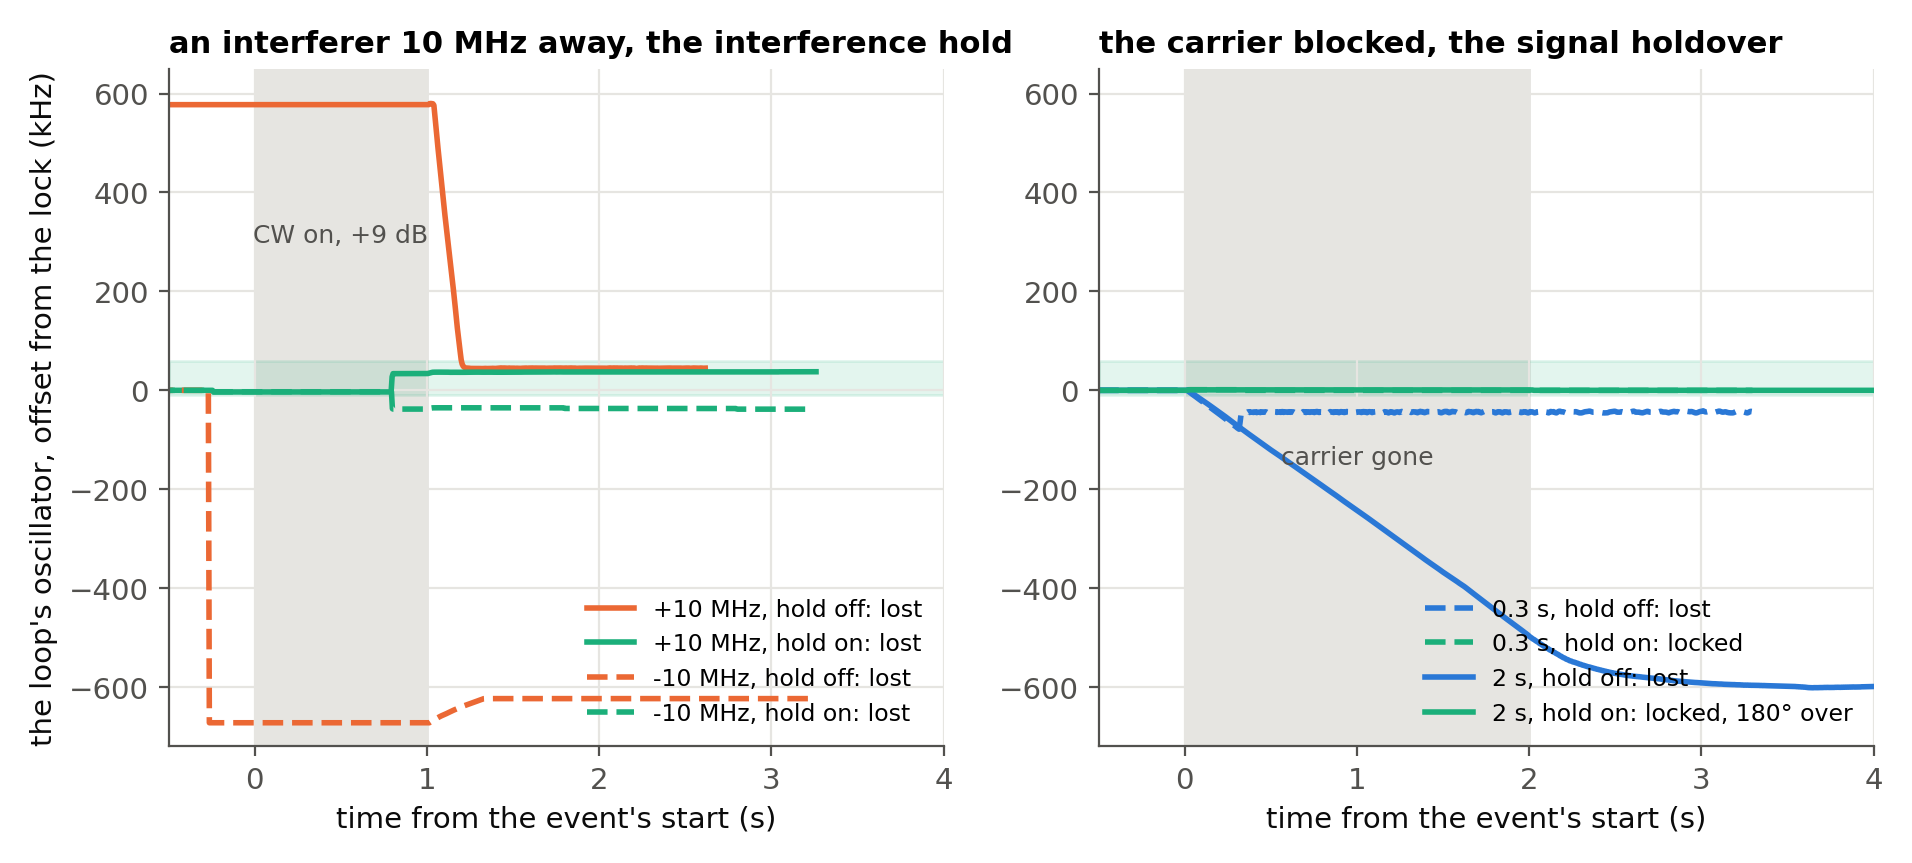
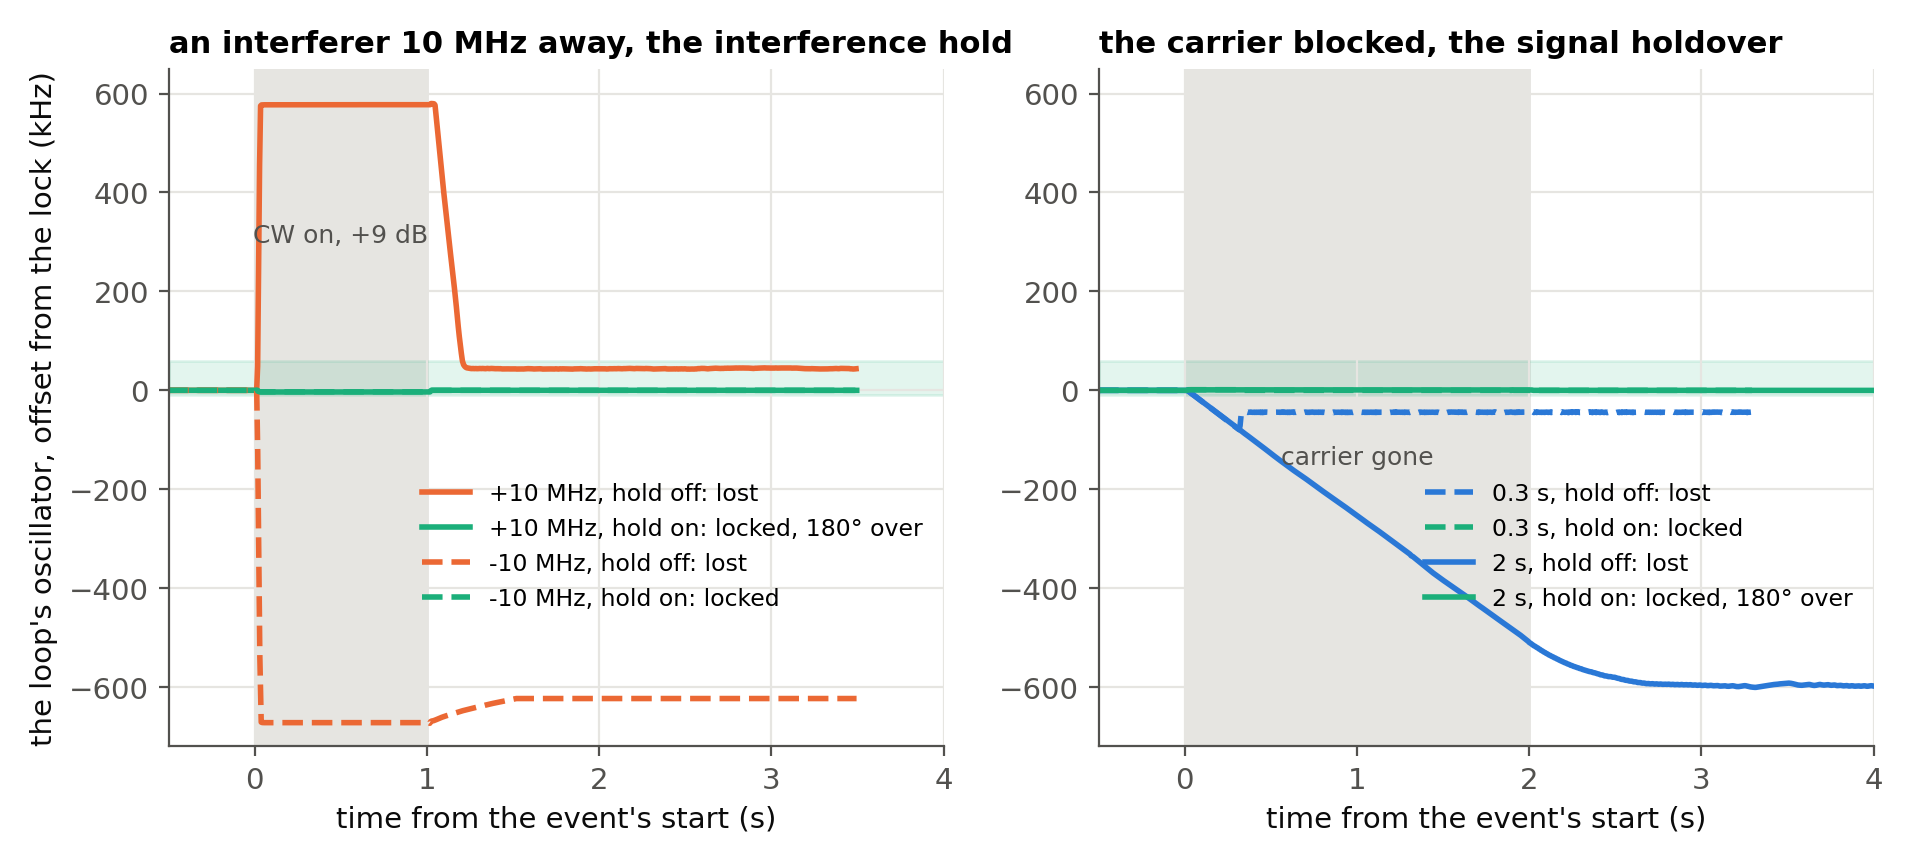
CostasLink-PYNQ-Z2 bring-up, board A: both holds work (BRINGUP_LOG 4.8b): a 1 s CW at +9 dB and a blocked carrier for 0.3 / 2 s all come back with the holds (lost without them, twice each); 40 of 40 dragging CWs back with the interference hold released 20 ms after the last busy window (the driver's 
Claude-Session: https://claude.ai/code/session_01Uf588E7eM22UugUmA7XoDw

diff --git a/bringup/holds_tests.py b/bringup/holds_tests.py
@@ -67,19 +67,28 @@ class Holds(BL.Link):
                 if not self.relock(mhz, st):
                     out["runs"].append({"kind": "interferer", "off_mhz": off, "protect": protect, "error": "no lock before"})
                     continue
+                # the B210 set up and streaming zeros before the trace (while it is configured it radiates its LO,
+                # here 11 MHz from the carrier, strongly enough to drag the loop: BRINGUP_LOG 4.8b), so the CW's
+                # start is a buffer swap, at once
+                sm = Stream(self.bb, mhz + off, 86, rate=4e6, park_hz=-1e6, amp=0.7)
+                sm.start(np.zeros(4000))
+                time.sleep(0.5)
+                if not self.relock(mhz, st):
+                    sm.stop()
+                    out["runs"].append({"kind": "interferer", "off_mhz": off, "protect": protect, "error": "no lock with the B210 idle"})
+                    continue
                 cl.rx_clear()
                 cl.ihold(protect)
-                sm = {}
 
                 def on():
-                    sm["s"] = Stream(self.bb, mhz + off, 86, rate=4e6, park_hz=-1e6, amp=0.7)
-                    sm["s"].start(np.ones(4000))
-                    return sm["s"].t_first
+                    sm.set(np.ones(4000))
+                    return time.time()
 
                 def off_():
-                    sm["s"].stop()
+                    sm.set(np.zeros(4000))
 
                 rows, t_ev, o = self.trace(st, 0.5, 1.0, on, off_)
+                sm.stop()
                 ih = cl.ihold_state()
                 cl.ihold(False)
                 r = {"kind": "interferer", "off_mhz": off, "gain": 86, "protect": protect, "t_on": t_ev, "dur_s": 1.0,

diff --git a/gateware/driver/costaslink.py b/gateware/driver/costaslink.py
@@ -759,11 +759,13 @@ class CostasLink:
         self.wr("RX_BER_CFG", int(enable) | int(invert) << 1 | self.POLYS[poly] << 4 | (phase & 0xFFFF) << 8
                 | int(bool(cdr)) << 24 | (gain & 0xF) << 25)
 
-    def ihold(self, on=True, mask=(CMP_QP, CMP_QN), window=256, thresh=8, hold_s=1e-3, max_s=5.0):
+    def ihold(self, on=True, mask=(CMP_QP, CMP_QN), window=256, thresh=8, hold_s=20e-3, max_s=5.0):
         """the interference hold (ID version 5, ihold.v): LOOP_HOLD while the comparators in `mask` change in `thresh`
         or more of each `window` clocks (a power of 2, 8-1024), released hold_s after they were last busy; never longer
         than max_s at a time.  A hold starts only after a quiet window, so it catches an interferer arriving at a
-        locked loop and never freezes a lost, beating one.  The defaults leave the link's
+        locked loop and never freezes a lost, beating one.  hold_s 20 ms: with 1 ms, 3 of 40 dragging CWs got the loop
+        in a release between busy windows (an interferer at the threshold, the B210's underflows); with 20 ms, 40 of 40
+        came back (BRINGUP_LOG 4.8b)  The defaults leave the link's
         own events and BPSK on I alone and catch an interferer's beat of 1 MHz and more from about -6 dB"""
         if not getattr(self, "ihold_ok", False):
             raise IOError("this overlay has no interference hold (ID version 5 has)")

diff --git a/docs/lock_figures.py b/docs/lock_figures.py
@@ -313,7 +313,7 @@ def fig_holds():
         ax.axhspan(-10, 60, color=AQUA, alpha=0.12, zorder=0)
         ax.set_xlabel("time from the event's start (s)")
         ax.set_xlim(-0.5, 4.0)
-        ax.legend(loc="lower right", fontsize=8.5)
+        ax.legend(loc="lower right", bbox_to_anchor=(1.0, 0.17), fontsize=8.5)
     axs[0].set_ylim(-720, 650)
     axs[1].set_ylim(-720, 650)
     axs[0].set_ylabel("the loop's oscillator, offset from the lock (kHz)")

diff --git a/docs/LOCK.md b/docs/LOCK.md
@@ -260,9 +260,12 @@ LOOP_HOLD with the software's own CTRL bit. **Both are off at reset**: nothing c
   maximum while a CW was still on, the loop was dragged 37 kHz, and the hold then re-held the lost loop's beat 86
   times, freezing it off the lock (BRINGUP_LOG 4.8). A hold freezes the loop wherever it is, so the one thing it
   must never do is hold a loop that is not locked.
-* **Release.** 1 ms after the last busy window; at most 5 s in one go, after which it lets go, waits 1 ms (the guard)
-  and can start again only after a quiet window. Five seconds is long against any WiFi burst; a longer interferer
-  than that gets the loop back to fend for itself, and the lock detector and search are the next line (section 8).
+* **Release.** 20 ms after the last busy window (the driver's default; the gateware's reset value is 1 ms): an
+  interferer near the drag threshold, or one with gaps, is busy only part of the time, and with a 1 ms release 3 of
+  40 dragging CWs caught the loop between holds, against 0 of 40 at 20 ms (BRINGUP_LOG 4.8b); the phase walks well
+  under a degree in 20 ms. At most 5 s in one go, after which it lets go, waits out the guard and can start again
+  only after a quiet window. Five seconds is long against any WiFi burst; a longer interferer than that leaves the
+  loop to fend for itself, and the lock detector and search are the next line (section 8).
 * **Registers** (`gateware/regmap.py`): `RX_IHOLD_CFG` 0x73 ([0] on, [3:1] window 2^(3+n) clocks, [15:8] threshold,
   [20:16] the comparators; reads [4] holding now, [31:24] the last window's count), `RX_IHOLD_HOLD` 0x74 (release
   delay and guard, clocks), `RX_IHOLD_MAX` 0x75, `RX_IHOLD_N` 0x76 (holds started), `RX_IHOLD_CLK` 0x77 (clocks held);
@@ -290,18 +293,31 @@ LOOP_HOLD with the software's own CTRL bit. **Both are off at reset**: nothing c
 
 ### 7.4 Measured
 
-`bringup/holds_tests.py holds`, 5.2 GHz over the air: the board's own link with a 1 s CW at +9 dB 10 MHz above or
-below the carrier, and the B210 as the carrier (the board's TX muted) switched off for 0.3 s and 2 s, as if someone
-stood in front of the antenna; each with the protection off and then on.
+`bringup/holds_tests.py holds` (twice, 21:13 and 21:38) and `weekend.py iholdcheck`, `pullauto`, 5.2 GHz over the air,
+on the overlay of 2026-10-30 21:12 (`a1eb2e6`; BRINGUP_LOG 4.8b): the board's own link with a 1 s CW at +9 dB 10 MHz above or below
+the carrier, and the B210 as the carrier (the board's TX muted) switched off for 0.3 s and 2 s, as if someone stood in
+front of the antenna; each with the protection off and then on.
 
 | case | protection off | protection on |
 |---|---|---|
-| CW +10 MHz, +9 dB, 1 s | lost: dragged to +578 kHz, parked in the +45 kHz false lock | *(the armed hold: see BRINGUP_LOG 4.8)* |
-| CW −10 MHz, +9 dB, 1 s | lost: dragged to −672 kHz, stays at the rail | *(the armed hold: see BRINGUP_LOG 4.8)* |
-| carrier gone 0.3 s | lost (beating, VC 1.749 V) | **locked at once** (1 holdover, 0.30 s) |
-| carrier gone 2 s | lost (VC 0.381 V, near the bottom rail) | **back at once** (1 holdover, 2.01 s; 180° over) |
+| CW +10 MHz, +9 dB, 1 s | lost both times: dragged to +578 kHz, parked in the +45 kHz false lock | **locked again both times** (1 hold of 1.01-1.02 s; 180° over both times) |
+| CW −10 MHz, +9 dB, 1 s | lost both times: dragged to −672 kHz, stays at the rail | **locked again both times** (1 hold of 1.01-1.02 s; once 180° over) |
+| carrier gone 0.3 s | lost both times (a false lock, VC 1.75 V) | **locked at once both times** (0.31 s held) |
+| carrier gone 2 s | lost both times (VC 0.37-0.41 V, near the bottom rail) | **locked at once both times** (2.00 s held; once 180° over) |
+| the pull test's 40 dragging CWs (1-40 MHz either side, about +3 to +12 dB) | 0 of 24 back (4.5) | **40 of 40 back** (release 20 ms; 37 of 40 at 1 ms) |
+| A3's 20 000 events, 25 Mbaud BPSK, 20 s of quiet | | **no hold at all**; A3 19 984 right against 19 988 off, BPSK 10 of 10 clean |
 
 ![the gateware's holds at work](images/lock_holds.png)
+
+*VC against the time from the event's start. Left: a 1 s CW at +9 dB, 10 MHz above (solid) or below (dashed) the
+carrier: free (orange) the loop goes to a rail and stays lost; with the interference hold (aqua) VC does not move and
+the loop locks again when the CW ends. Right: the carrier gone for 0.3 s (dashed) or 2 s (solid): free (blue) the LO
+walks off at about 300 kHz a second and the loop is lost; with the signal holdover (aqua) it stays put and locks again
+at once.*
+
+After a hold of a second the loop comes back at either of its two points (the references drift apart by up to a few
+hertz while it is held); after a WiFi burst of milliseconds the phase hardly moves. A link that sends data has to
+resolve the 180° ambiguity in any case (differential encoding, or a known preamble).
 
 ### 7.5 Using them
 
@@ -311,7 +327,7 @@ From the PC or the PYNQ, through the driver (`gateware/driver/costaslink.py`):
 cl.protect(True)          # both holds on, with their defaults: the deployment's setting, once locked
 cl.protect(False)         # both off: before a search or acquisition, and for tests that make the windows busy
 
-cl.ihold(True, mask=(CMP_QP, CMP_QN), window=256, thresh=8, hold_s=1e-3, max_s=5.0)      # the interference hold
+cl.ihold(True, mask=(CMP_QP, CMP_QN), window=256, thresh=8, hold_s=20e-3, max_s=5.0)     # the interference hold
 cl.shold(True, mask=(CMP_IP, CMP_IN, CMP_QP, CMP_QN), window=256, thresh=64, hold_s=1e-3, max_s=10.0)   # the holdover
 cl.ihold_state(), cl.shold_state()   # on, holding now, the last window's count, holds started, seconds held
 ```
@@ -333,8 +349,8 @@ push the interferer can create. Everything else is what to do once the loop has 
 
 | lever | where | what it buys | evidence |
 |---|---|---|---|
-| hold during interference | rev A gateware (`ihold.v`) | the push has nothing to act on while it lasts | 24 of 24 by hand (4.5); 4.8 |
-| hold while the carrier is gone | rev A gateware (`ihold.v`, LEVEL 1) | the LO stays on the carrier's frequency | 4.8 |
+| hold during interference | rev A gateware (`ihold.v`) | the push has nothing to act on while it lasts | 24 of 24 by hand (4.5); 40 of 40 in gateware (4.8b) |
+| hold while the carrier is gone | rev A gateware (`ihold.v`, LEVEL 1) | the LO stays on the carrier's frequency | 4 of 4 (4.8, 4.8a, 4.8b) |
 | know when you are lost, then search | rev A gateware (next) | recovery in tens of ms instead of never | 52 of 52 offsets by a downward sweep from the PC (3.9j); 96 of 96 recoveries (3.9f); REVB 21, 25 |
 | keep interferers away from the limiter | rev B | the loop needs a few kHz but its detector sees the arms' 94 MHz; a narrower, matched I/Q filter feeding the detector alone (the decisions keep the wide arms) stops most out-of-channel interferers reaching the comparator | the thresholds of section 4; REVB 27 |
 | remove the push | rev B | match the delay from the arms to U110 on the sign(I) and Q paths, and the push vanishes, leaving the capture effect | the model, section 3 |

diff --git a/bringup/BRINGUP_LOG.md b/bringup/BRINGUP_LOG.md
@@ -244,3 +244,4 @@ the floor that keeps the ADL5380's input at 0 dBm or less (its maximum +15).
 | 4.7 the BER check's timing recovery on the board (17:31: overlay ID 0x434C0004 from `3c1f3bb`, Vivado 2022.1, `build/pynq/overlay_2022.1_cdr/`, bit `b6ff8286...`, hwh `f7bf07c1...`; deployed to `~/costaslink_cdr/` on the PYNQ, the server restarted there, `~/costaslink/` (the 2024.1 turnaround overlay) kept as it was; the watchdog paused for the swap) | the frame lottery gone (4.6); a transmitter on its own clock checked | **Built**: the first 2022.1 build failed timing on the unpipelined loop (32 logic levels, -10 ns); pipelined over four clocks it met 100 MHz but the fast path missed its 6 ns pin-to-pin target by 10 ps; place and route again with Performance_ExplorePostRoutePhysOpt: WNS +0.158 ns, WHS +0.032 ns, the fast path 2.7-13.1 ns pin to pin.  **On the board**: ID 0x434C0004, BUILD unchanged, the five I2C parts, both PLLs locked, the loop locked over the air at DSA 17.75.  **The board's own link, 20 runs of 50 ms at each rate**: fixed phase 4 / 8 / 1 of 20 runs with errors at 25 / 50 / 10 Mbaud; **timing recovered 0 of 20 at every rate** (27.2 M, 54.0 M, 10.7 M bits, no error).  **B210 -> board BPSK (the B210's own clock), timing recovered: 10 runs of 1 s at 1 and 2 Mbaud, loop gains 2^-4 and 2^-6: 60.4 M bits, no error, no B210 underflow; the clocks' offset from the recovery's own corrections +5.3 +- 0.3 ppm**, the software receiver's -5.30 ppm the other way round (4.4): two independent recoveries agree.  `campaign.ber_once` (and every BER segment since) now uses the recovery at 2 clocks a symbol and more | |
 | 4.8 the gateware's holds (Jason 18:10: "If someone walks in front of the antenna and blocks it or their phone wifi interferes, the lock should recover once the incoming signal and interference levels recover"; overlay 0x434C0005 `dd3ef6b`, Vivado 2022.1, WNS +0.235 ns, deployed 19:24 to `~/costaslink_holds/`; `holds_tests.py holds` 19:26) | each switched and tuned from software, off at reset | **The signal holdover works**: the B210's carrier (the board's TX muted) gone for 0.3 s and for 2 s, as if blocked: held, the loop was locked again at once both times (1 holdover each, 0.30 and 2.01 s held; the 2 s one 180 degrees over); free, lost both times (VC 1.749 V, a false lock; 0.381 V, near the bottom rail: the board's own drift, about 300 kHz/s, carries the free loop off while the carrier is gone).  **The first interference hold did not save the loop, and showed why**: through a 1 s CW at +9 dB 10 MHz above or below, VC stayed within 3 kHz while held (free: to +578 / -672 kHz), but the hold reached its 1 s maximum with the CW still on (the B210's stream starts sending inside its setup, before the test's clock started), was released into it, the loop dragged about 37 kHz, and then the lost loop's own beat made the Q windows chatter and re-held it 86 times, freezing it 37 kHz off.  **Fixed in `ihold.v`**: a hold starts only after a quiet window (an interferer arriving at a locked loop finds it armed, a lost loop never), after a release at the maximum it waits for quiet, and the maximum is 5 s; `tb_ihold.v` adds the cases; rebuilt.  `docs/LOCK.md` written: how the loop holds and loses lock, why a dragged loop stays lost (the lock window is in frequency difference; out there the board's own drift, about -4 to -8 V/s, outweighs the carrier's 1 / df pull), and the holds | |
 | 4.8a the armed interference hold (overlay `fadc038`, WNS +0.163 ns, deployed 20:22 to `~/costaslink_holds2/`; `holds_tests.py` 20:24, then by hand) | | **The arming worked and the drag was prevented**: through the 1 s CW at +9 dB VC stayed at the lock, +1.9 / -2.6 kHz (free: +578 / -672 kHz, then the +45 kHz false lock and the bottom rail), and a quiet locked loop never triggered it (2 s, 0 holds).  **But the hold then held itself**: after the CW the windows read 0 changes, yet the hold stayed on until its maximum.  By hand: the CW's end released the hold, the loop pulled its phase back, and the Q leg crossing one window's threshold slowly chattered on noise (the windows have no hysteresis): busy, so held, frozen with Q at the threshold, so busy again.  **Fixed**: a busy window now needs two of the chosen comparators (QP and QN) each active in at least half the threshold: an interferer's beat swings Q across both windows, noise at one threshold chatters one.  The signal holdover again brought the loop back at once after 0.3 s and 2 s of a blocked carrier (free: lost, VC 1.754 and 0.551 V) | |
+| 4.8b the interference hold, third version (overlay `a1eb2e6`: busy only with both Q windows active; WNS +0.209 ns; deployed 21:12 to `~/costaslink_holds3/`; `holds_tests.py`, `weekend.py iholdcheck` and `pullauto` 21:13-21:50) | the two holds pass | **Both holds work.**  A 1 s CW at +9 dB 10 MHz above or below: held, the loop back on the carrier after it (1 hold of 1.02 s each; 180 degrees over, as after any long hold), free lost (the +45 kHz false lock; the bottom rail).  The carrier blocked 0.3 s and 2 s: held, locked at once (one holdover each); free, lost.  **It leaves the link alone**: on through A3's 20 000 events (19 984 right against 19 988 off, no errors, no holds), 25 Mbaud BPSK (10 of 10 clean, no holds) and 20 s of quiet (no holds).  **Through the pull test's 40 dragging CWs** (1-40 MHz either side, gain 80-89.75): with the release 1 ms after the last busy window, 37 of 40 back (the 3 lost: a hold that ended within milliseconds with the CW on, the CW at the drag threshold or the B210 underflowing between busy windows); **with the release at 20 ms, 40 of 40 back**: the driver's default is now 20 ms (the phase walks well under a degree in it).  Without a hold, 0 of 24 came back (4.5) | |
